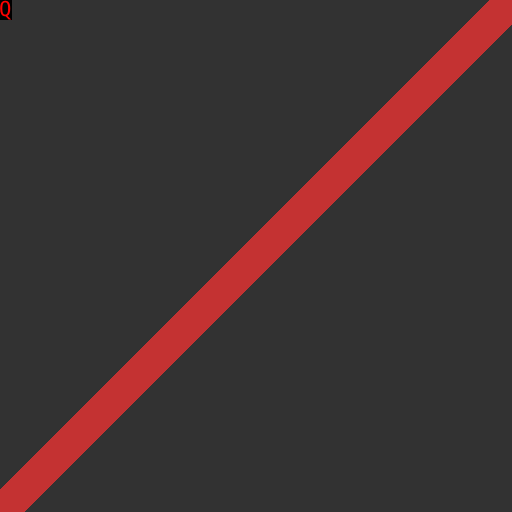
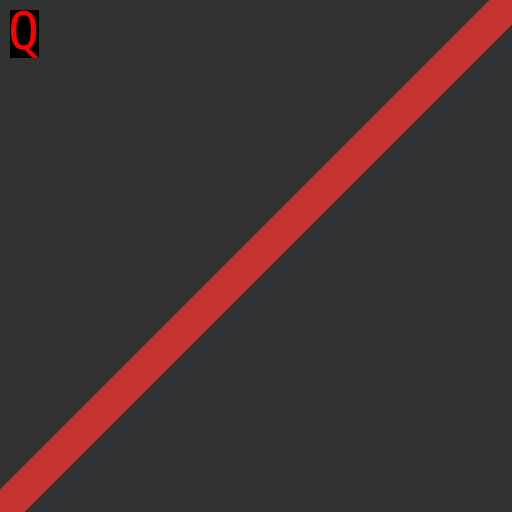
gpu speed analysis

Changed region(s): [[0.0, 0.0, 0.0938, 0.125]]

diff --git a/singularity_ui/examples/ocl_demo.rs b/singularity_ui/examples/ocl_demo.rs
@@ -3,6 +3,7 @@ use ocl::{
     enums::{ImageChannelDataType, ImageChannelOrder, MemObjectType},
     Context, Device, Image, Kernel, Program, Queue,
 };
+use singularity_ui::task_logger::do_task;
 use std::{path::Path, sync::LazyLock};
 
 const SAVE_IMAGES_TO_DISK: bool = true;
@@ -55,7 +56,7 @@ enum Element {
 }
 impl Element {
     pub fn render(&self, dst_image: &Image<u8>, dims: &(u32, u32)) {
-        let kernel = match self {
+        let kernel = do_task("Building kernel", || match self {
             Element::Circle {
                 inner_color,
                 center,
@@ -96,12 +97,11 @@ impl Element {
                 .arg(dst_image)
                 .build()
                 .unwrap(),
-        };
+        });
 
-        println!("Attempting to run the gpu program...");
-        unsafe {
+        do_task("Running gpu program", || unsafe {
             kernel.enq().unwrap();
-        }
+        });
     }
 }
 
@@ -125,30 +125,38 @@ fn main() {
         .build()
         .unwrap();
 
-    Element::Rectangle {
-        inner_color: Rgba([0, 0, 255, 255]),
-        width: 100,
-        height: 150,
-    }
-    .render(&dst_image, &dims);
-    Element::Circle {
-        inner_color: Rgba([0, 255, 0, 255]),
-        center: (500., -10.),
-        radius: 20.,
-    }
-    .render(&dst_image, &dims);
-    Element::Rectangle {
-        inner_color: Rgba([255, 0, 0, 255]),
-        width: 200,
-        height: 50,
-    }
-    .render(&dst_image, &dims);
-    Element::Circle {
-        inner_color: Rgba([0x7F, 0x7F, 0, 255]),
-        center: (200., 200.),
-        radius: 50.,
-    }
-    .render(&dst_image, &dims);
+    do_task("Render rect 1", || {
+        Element::Rectangle {
+            inner_color: Rgba([0, 0, 255, 255]),
+            width: 100,
+            height: 150,
+        }
+        .render(&dst_image, &dims);
+    });
+    do_task("Render circle 1", || {
+        Element::Circle {
+            inner_color: Rgba([0, 255, 0, 255]),
+            center: (500., -10.),
+            radius: 20.,
+        }
+        .render(&dst_image, &dims);
+    });
+    do_task("Render rect 2", || {
+        Element::Rectangle {
+            inner_color: Rgba([255, 0, 0, 255]),
+            width: 200,
+            height: 50,
+        }
+        .render(&dst_image, &dims);
+    });
+    do_task("Render circle 2", || {
+        Element::Circle {
+            inner_color: Rgba([0x7F, 0x7F, 0, 255]),
+            center: (200., 200.),
+            radius: 50.,
+        }
+        .render(&dst_image, &dims);
+    });
 
     // put dst_image onto img
     dst_image.read(&mut img).enq().unwrap();

diff --git a/singularity_ui/examples/ab_glyph_demo.rs b/singularity_ui/examples/ab_glyph_demo.rs
@@ -1,11 +1,25 @@
-use ab_glyph::{Font, FontRef, Glyph};
+use ab_glyph::{Font, FontArc};
 use font_kit::source::SystemSource;
 use image::Rgba;
-use std::path::Path;
+use singularity_ui::task_logger::do_task;
+use std::{path::Path, sync::LazyLock};
 
 const SAVE_IMAGES_TO_DISK: bool = true;
 const BEFORE_IMAGE_FILE_NAME: &str = "./before_glyph_example_image.png";
 const AFTER_IMAGE_FILE_NAME: &str = "./after_glyph_example_image.png";
+
+static FONT_DATA: LazyLock<Vec<u8>> = LazyLock::new(|| {
+    let font = SystemSource::new()
+        .select_best_match(
+            &[font_kit::family_name::FamilyName::Monospace],
+            font_kit::properties::Properties::new().weight(font_kit::properties::Weight::MEDIUM),
+        )
+        .unwrap()
+        .load()
+        .unwrap();
+    font.copy_font_data().unwrap().to_vec()
+});
+static FONT: LazyLock<FontArc> = LazyLock::new(|| FontArc::try_from_slice(&FONT_DATA).unwrap());
 
 /// Generates a diagonal reddish stripe and a grey background.
 fn generate_image() -> image::ImageBuffer<image::Rgba<u8>, Vec<u8>> {
@@ -27,25 +41,24 @@ fn main() {
         img.save(&Path::new(BEFORE_IMAGE_FILE_NAME)).unwrap();
     }
 
-    let font = SystemSource::new()
-        .select_best_match(
-            &[font_kit::family_name::FamilyName::Monospace],
-            font_kit::properties::Properties::new().weight(font_kit::properties::Weight::MEDIUM),
-        )
-        .unwrap()
-        .load()
-        .unwrap();
-    let font_data = font.copy_font_data().unwrap().to_vec();
-    let font = FontRef::try_from_slice(&font_data).unwrap();
+    for pts in [12., 24., 60.] {
+        println!("Pts: {pts}");
+        for i in 0..3 {
+            println!("Trial: {i} with pts: {pts}");
+            do_task("Trial", || {
+                let q_glyph = do_task("Load", || FONT.glyph_id('Q').with_scale(pts));
 
-    // Get a glyph for 'q' with a scale & position.
-    let q_glyph: Glyph = font.glyph_id('Q').with_scale(24.0);
-
-    // Draw it.
-    if let Some(q) = font.outline_glyph(q_glyph) {
-        q.draw(|x, y, c| {
-            *img.get_pixel_mut(x, y) = Rgba([(c * 255.) as u8, 0, 0, u8::MAX]);
-        });
+                do_task("Draw", || {
+                    // Draw it.
+                    if let Some(q) = FONT.outline_glyph(q_glyph) {
+                        q.draw(|x, y, c| {
+                            *img.get_pixel_mut(x + 10, y + 10) =
+                                Rgba([(c * 255.) as u8, 0, 0, u8::MAX]);
+                        });
+                    }
+                });
+            });
+        }
     }
 
     if SAVE_IMAGES_TO_DISK {

diff --git a/DEVLOG.md b/DEVLOG.md
@@ -935,3 +935,22 @@ It is tightly coupled with the pathfinder crate, which makes sense because both 
 2024/10/03
 
 If I need to import a font, I'll go with DejaVu fonts because it is public domain.
+
+---
+
+I got ab_glyphs to work, but my implementation isn't super fast.
+Of course, loading takes time, but even for just the drawing portion:
+```rust
+q.draw(|x, y, c| {
+    *img.get_pixel_mut(x + 10, y + 10) =
+        Rgba([(c * 255.) as u8, 0, 0, u8::MAX]);
+});
+```
+drawing a 12pt character onto the picture takes around 20µs.
+For a glyph, raqote (criticized for its speed) took around 5-10µs.
+
+As for the gpu renders, building a kernel took around 150µs and executing it took around 20µs.
+Raqote took around 250µs for rectangles before optimizations
+So, I hypothesize that the more things I can do with a single call to the gpu, the more effecient it will get compared to the cpu.
+
+Okay, knowing all this, I am going to put a hold on the GPU stuff, because it wasn't as fun as I thought it would be.
